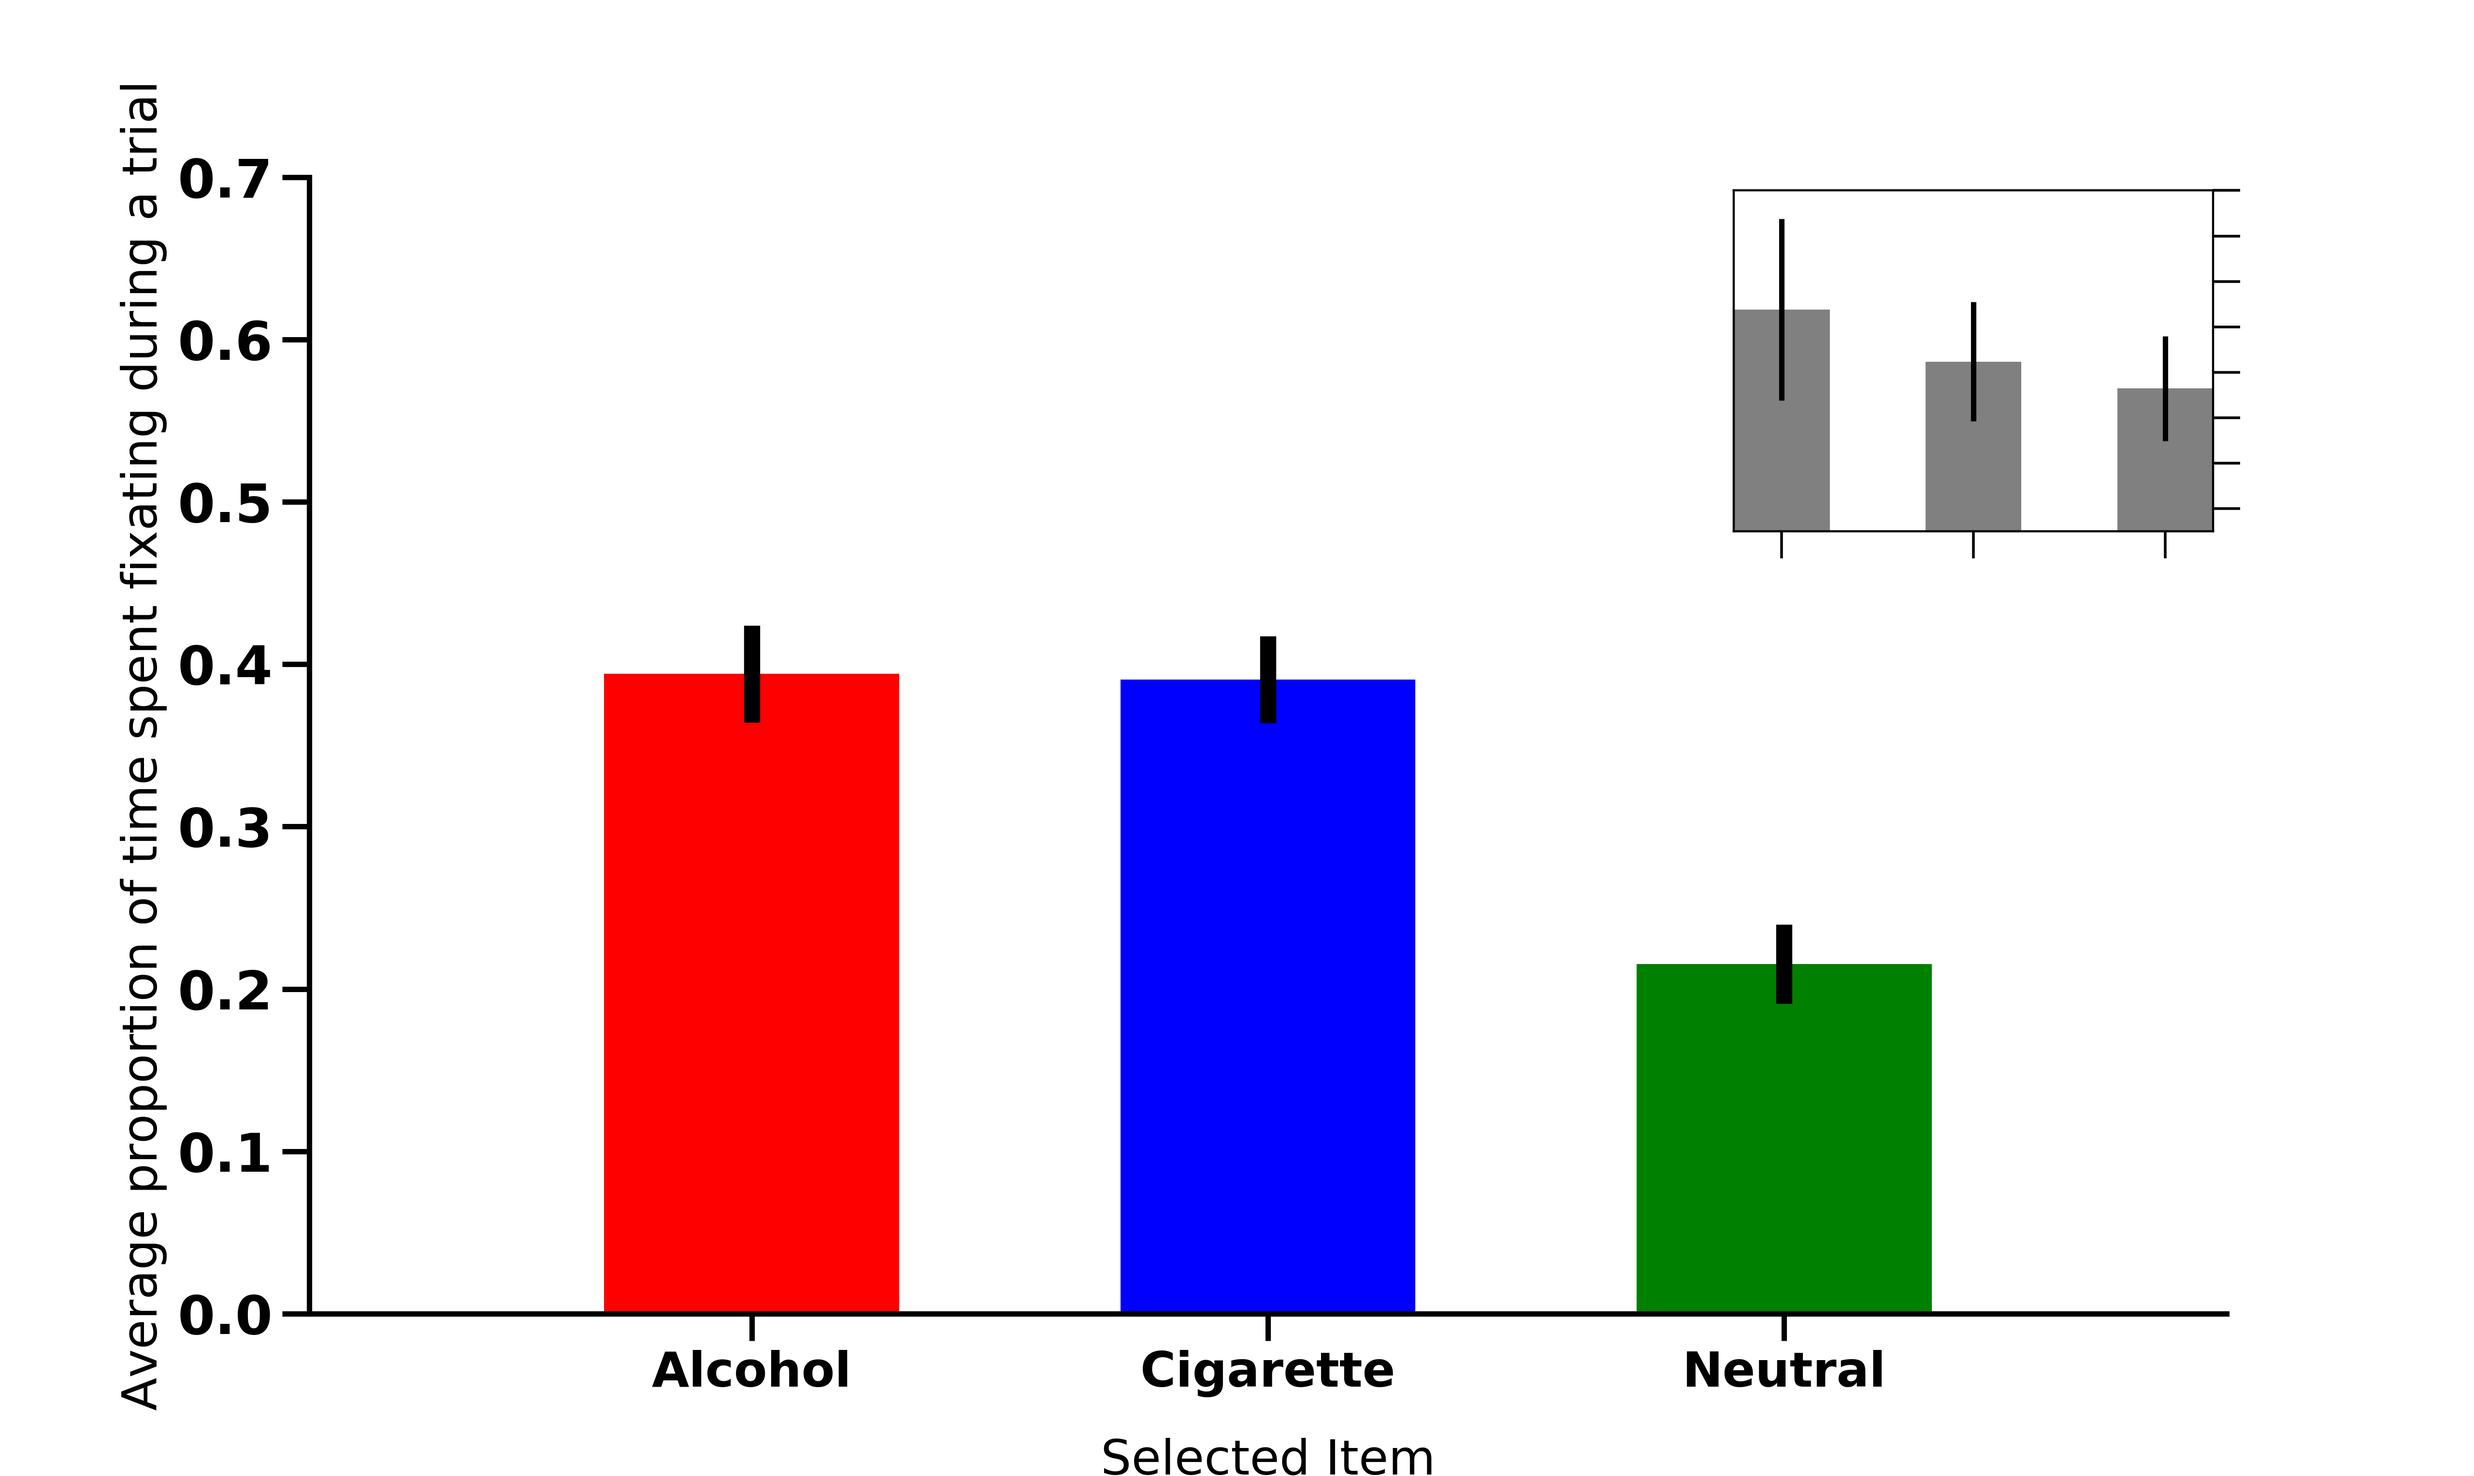
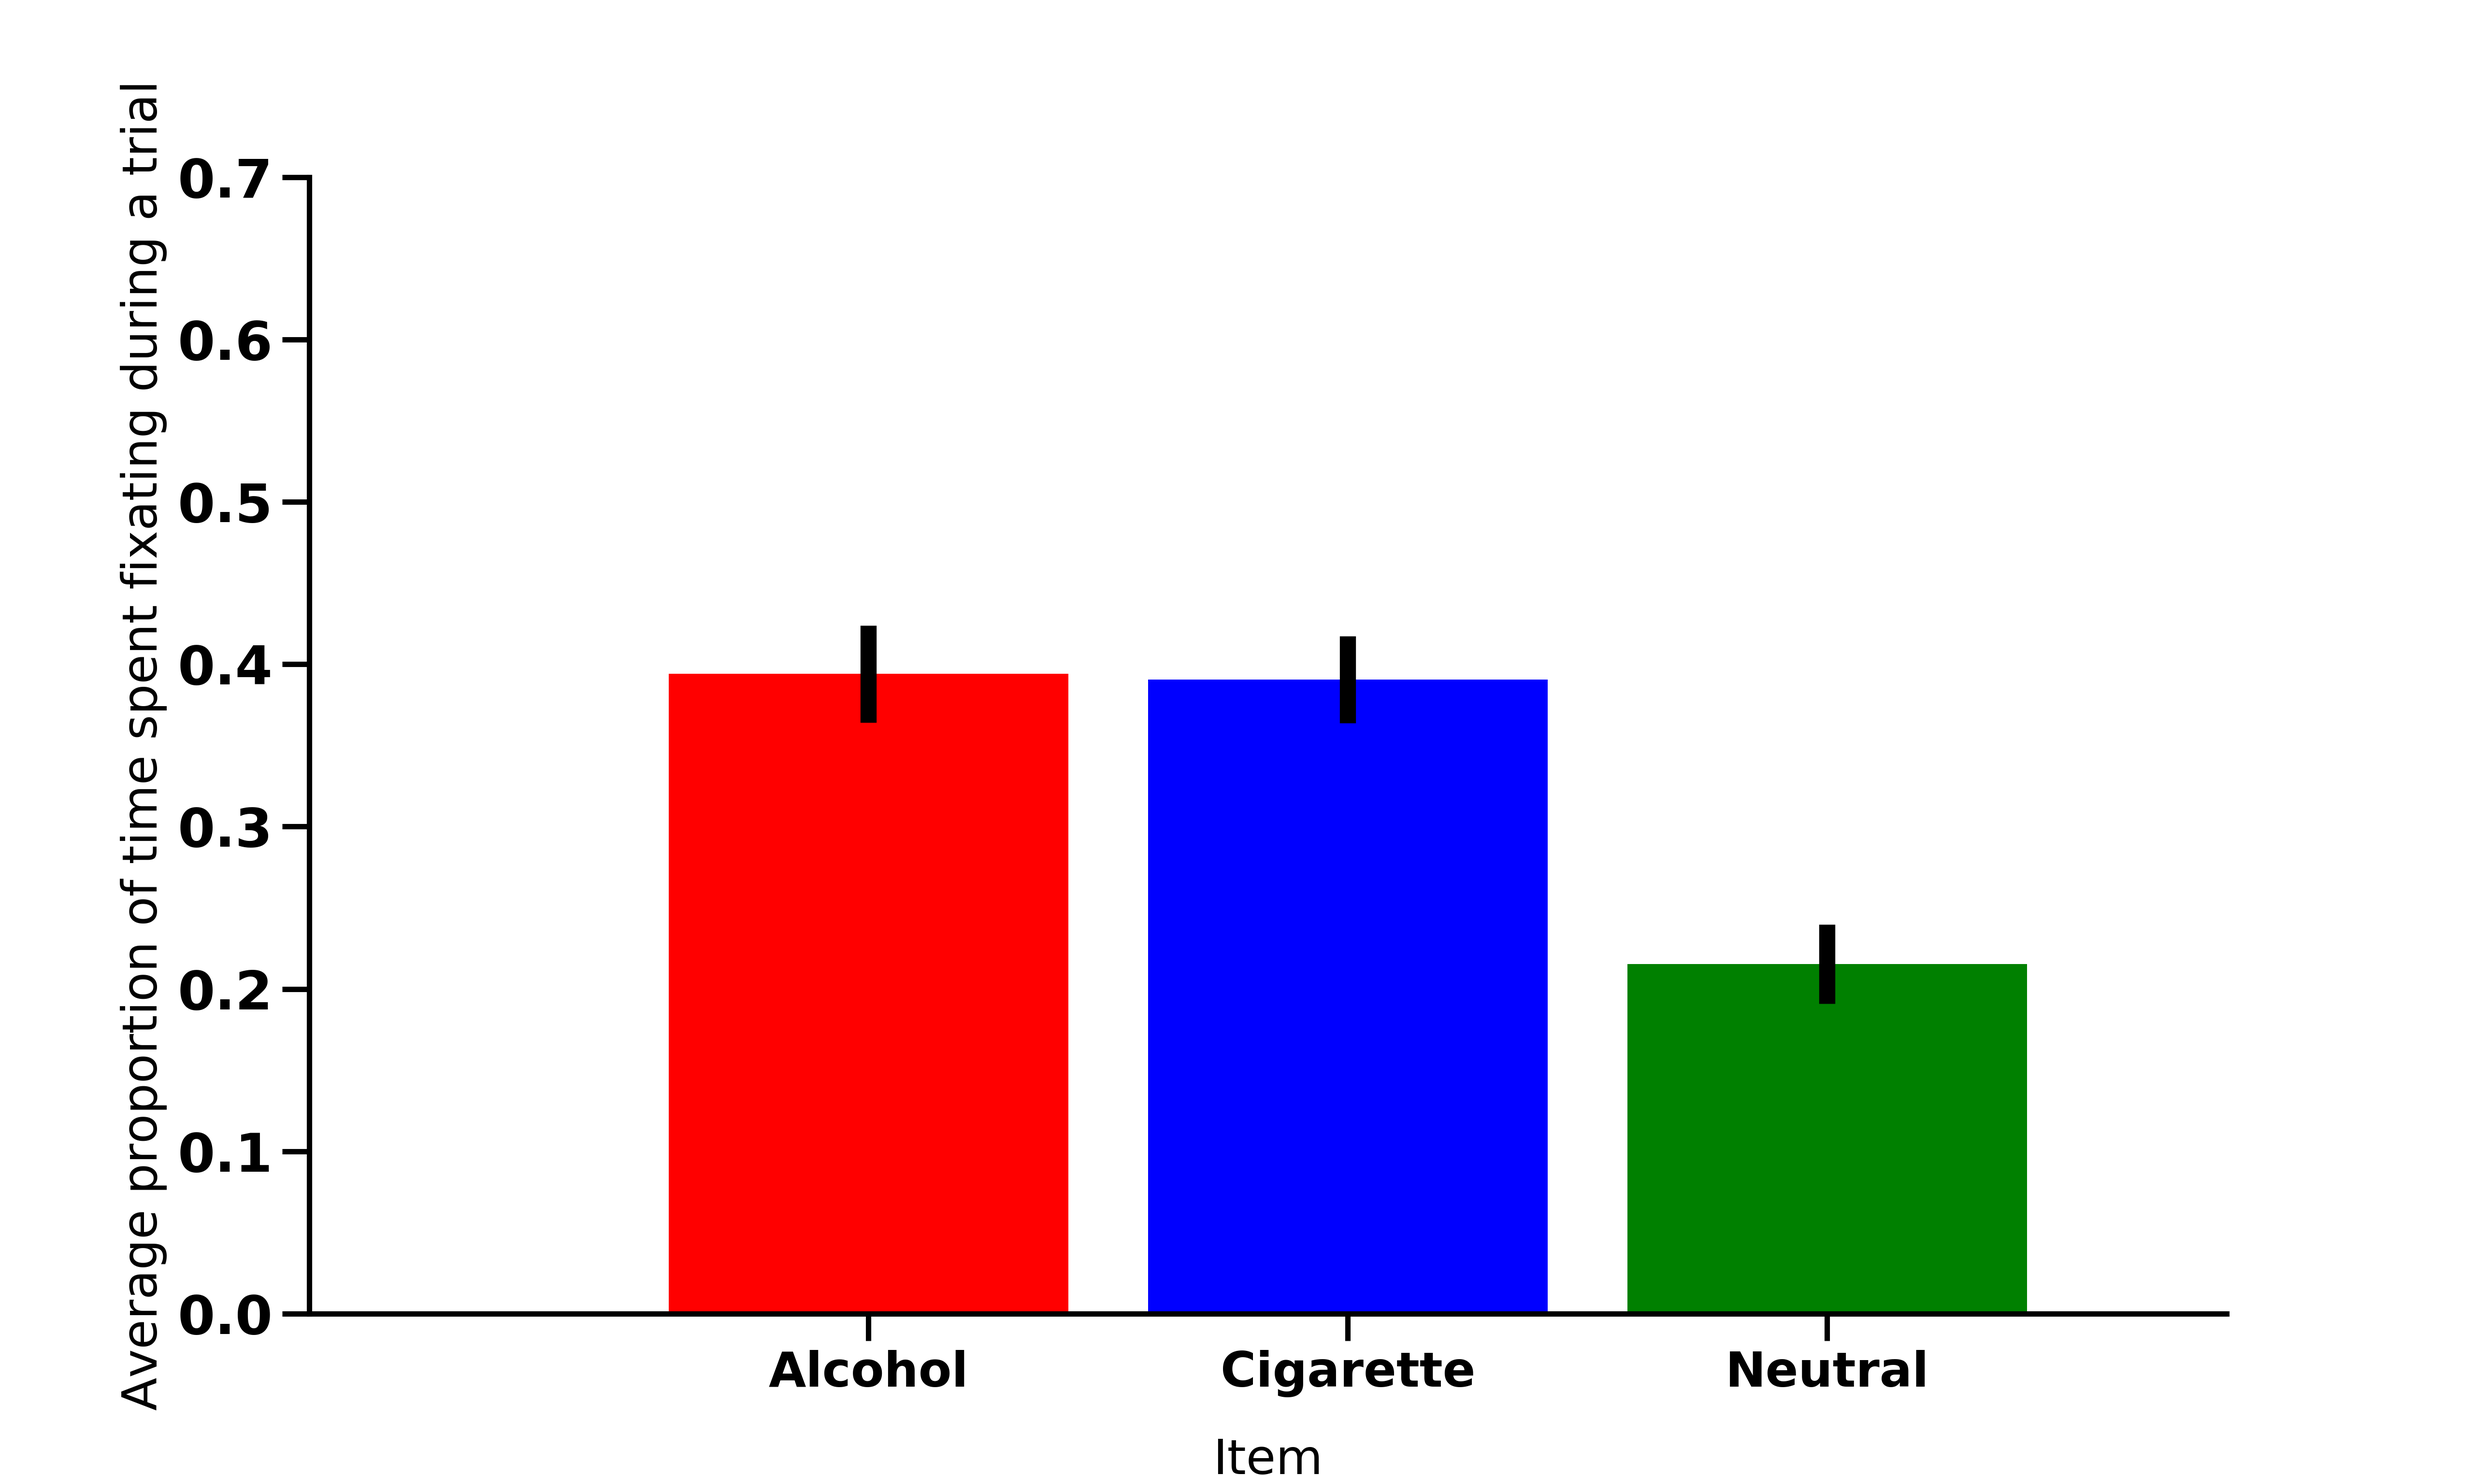
redid plots

diff --git a/cret_generate_figures.py b/cret_generate_figures.py
@@ -117,44 +117,21 @@ show();
 ##Plot proportion for all trials aggregated together
 fig = figure(figsize = (12.8,7.64)); ax1=gca(); #grid(True);
 #title('Average proportion of time fixating each item in a trial \n all trials aggregated together, subject %s'%eyed, fontsize = 22);
-ax1.set_ylim(0.0,0.70); ax1.set_yticks(arange(0.0,0.701,0.1)); ax1.set_xlim([0.4,3.0]); ax1.set_xticks([1,1.7,2.4]);
-ax1.set_ylabel('Average proportion of time spent fixating during a trial',size=18); ax1.set_xlabel('Selected Item',size=18,labelpad=15);
+ax1.set_ylim(0.0,0.70); ax1.set_yticks(arange(0.0,0.701,0.1)); ax1.set_xlim([0.5,1.7]); ax1.set_xticks([0.85, 1.15, 1.45]);
+ax1.set_ylabel('Average proportion of time spent fixating during a trial',size=18); ax1.set_xlabel('Item',size=18,labelpad=15);
 ax1.set_xticklabels(['Alcohol','Cigarette','Neutral']); #'All PAPC Trials',
 #alcohol first
-ax1.bar(1.0,db['%s_high_pref_all_hp_look_at_alc_mean_perc_time_at_pref'%eyed], color = colors[0], width = 0.4);
-ax1.errorbar(1.0, db['%s_high_pref_all_hp_look_at_alc_mean_perc_time_at_pref'%eyed],
+ax1.bar(0.85,db['%s_high_pref_all_hp_look_at_alc_mean_perc_time_at_pref'%eyed], color = colors[0], width = 0.25);
+ax1.errorbar(0.85, db['%s_high_pref_all_hp_look_at_alc_mean_perc_time_at_pref'%eyed],
              yerr=[[db['%s_high_pref_all_hp_look_at_alc_bs_sems_perc_time_at_pref'%eyed]],[db['%s_high_pref_all_hp_look_at_alc_bs_sems_perc_time_at_pref'%eyed]]],color='black',lw=6.0);
 #cigarettes next
-ax1.bar(1.7,db['%s_high_pref_all_hp_look_at_cig_mean_perc_time_at_pref'%eyed], color = colors[1], width = 0.4);
-ax1.errorbar(1.7, db['%s_high_pref_all_hp_look_at_cig_mean_perc_time_at_pref'%eyed],
+ax1.bar(1.15,db['%s_high_pref_all_hp_look_at_cig_mean_perc_time_at_pref'%eyed], color = colors[1], width = 0.25);
+ax1.errorbar(1.15, db['%s_high_pref_all_hp_look_at_cig_mean_perc_time_at_pref'%eyed],
              yerr=[[db['%s_high_pref_all_hp_look_at_cig_bs_sems_perc_time_at_pref'%eyed]],[db['%s_high_pref_all_hp_look_at_cig_bs_sems_perc_time_at_pref'%eyed]]],color='black',lw=6.0);
 #finally neutral
-ax1.bar(2.4,db['%s_high_pref_all_hp_look_at_neutral_mean_perc_time_at_pref'%eyed], color = colors[2], width = 0.4);
-ax1.errorbar(2.4, db['%s_high_pref_all_hp_look_at_neutral_mean_perc_time_at_pref'%eyed],
+ax1.bar(1.45,db['%s_high_pref_all_hp_look_at_neutral_mean_perc_time_at_pref'%eyed], color = colors[2], width = 0.25);
+ax1.errorbar(1.45, db['%s_high_pref_all_hp_look_at_neutral_mean_perc_time_at_pref'%eyed],
              yerr=[[db['%s_high_pref_all_hp_look_at_neutral_bs_sems_perc_time_at_pref'%eyed]],[db['%s_high_pref_all_hp_look_at_neutral_bs_sems_perc_time_at_pref'%eyed]]],color='black',lw=6.0);
-
-#plot RTs for each type of trial in an inset
-ia = inset_axes(ax1, width="25%", height="30%", loc=1); #set the inset axes as percentages of the original axis size
-ia.tick_params(width = 1.0);
-ia.set_xlim([0.85,2.35]); ia.set_xticks([1,1.6,2.2]); ia.set_ylim([850,1400]); ia.set_yticks(arange(900,1601,100));
-ia.set_xticklabels(['Alc','Cig','Neutral'], size = 10);
-ia.set_xticklabels(['','',''], size = 10);
-#ia.set_ylabel('Reaction time (ms)',size=10); ia.set_xlabel('Selected Item',size=10);
-ia.yaxis.set_label_position('right'); ia.yaxis.set_ticks_position('right');
-ia.set_yticklabels(['900','1000','1100','1200','1300','1400','1500','1600'], size = 10);
-ia.set_yticklabels(['','','','','','','',''], size = 10);
-ia.bar(1.0,db['agg_high_pref_selected_alc_mean_rt'], color = 'grey', width = 0.3);
-ia.errorbar(1.0, db['agg_high_pref_selected_alc_mean_rt'],
-             yerr=[[db['agg_high_pref_selected_alc_bs_sems_rt']],[db['agg_high_pref_selected_alc_bs_sems_rt']]],color='black',lw=2.0,capsize = 0);
-ia.bar(1.6,db['agg_high_pref_selected_cig_mean_rt'], color = 'grey', width = 0.3);
-ia.errorbar(1.6, db['agg_high_pref_selected_cig_mean_rt'],
-             yerr=[[db['agg_high_pref_selected_cig_bs_sems_rt']],[db['agg_high_pref_selected_cig_bs_sems_rt']]],color='black',lw=2.0,capsize = 0);
-ia.bar(2.2,db['agg_high_pref_selected_neutral_mean_rt'], color = 'grey', width = 0.3);
-ia.errorbar(2.2, db['agg_high_pref_selected_neutral_mean_rt'],
-             yerr=[[db['agg_high_pref_selected_neutral_bs_sems_rt']],[db['agg_high_pref_selected_neutral_bs_sems_rt']]],color='black',lw=2.0,capsize = 0);
-# title('Mean RT', fontsize = 14);
-
-
 ax1.spines['right'].set_visible(False); ax1.spines['top'].set_visible(False);
 ax1.spines['bottom'].set_linewidth(2.0); ax1.spines['left'].set_linewidth(2.0);
 ax1.yaxis.set_ticks_position('left'); ax1.xaxis.set_ticks_position('bottom');
@@ -169,6 +146,38 @@ ax1.set_ylabel(''); ax1.set_xlabel(''); title('');
 filename = 'all_hp_fixate_preferred_item';
 savefig(savepath+filename+'.eps',dpi=400);
 show();
+
+
+#then mean RT for each condition
+fig = figure(figsize = (12.8,7.64)); ax1=gca(); #grid(True);
+#title('Average proportion of time fixating each item in a trial \n all trials aggregated together, subject %s'%eyed, fontsize = 22);
+ax1.set_ylim(850, 1600); ax1.set_yticks(arange(900, 1601, 100)); ax1.set_xlim([0.5,1.7]); ax1.set_xticks([0.85, 1.15, 1.45]);
+ax1.set_ylabel('Mean RT',size=18); ax1.set_xlabel('Selected Item',size=18,labelpad=15);
+ax1.set_xticklabels(['Alcohol','Cigarette','Neutral']);
+ax1.bar(0.85,db['agg_high_pref_selected_alc_mean_rt'], color = colors[0], width = 0.25);
+ax1.errorbar(0.85, db['agg_high_pref_selected_alc_mean_rt'],
+             yerr=[[db['agg_high_pref_selected_alc_bs_sems_rt']],[db['agg_high_pref_selected_alc_bs_sems_rt']]],color='black',lw=6.0,capsize = 0);
+ax1.bar(1.15,db['agg_high_pref_selected_cig_mean_rt'], color = colors[1], width = 0.25);
+ax1.errorbar(1.15, db['agg_high_pref_selected_cig_mean_rt'],
+             yerr=[[db['agg_high_pref_selected_cig_bs_sems_rt']],[db['agg_high_pref_selected_cig_bs_sems_rt']]],color='black',lw=6.0,capsize = 0);
+ax1.bar(1.45,db['agg_high_pref_selected_neutral_mean_rt'], color = colors[2], width = 0.25);
+ax1.errorbar(1.45, db['agg_high_pref_selected_neutral_mean_rt'],
+             yerr=[[db['agg_high_pref_selected_neutral_bs_sems_rt']],[db['agg_high_pref_selected_neutral_bs_sems_rt']]],color='black',lw=6.0,capsize = 0);
+ax1.spines['right'].set_visible(False); ax1.spines['top'].set_visible(False);
+ax1.spines['bottom'].set_linewidth(2.0); ax1.spines['left'].set_linewidth(2.0);
+ax1.yaxis.set_ticks_position('left'); ax1.xaxis.set_ticks_position('bottom');
+#save the labeled figure as a .png	
+filename = 'rt_by_chosen_item_labeled';
+savefig(savepath+filename+'.png',dpi=400);
+#then get rid of labels and save as a .eps
+labels = [item.get_text() for item in ax1.get_xticklabels()]; labels[0]=''; labels[1]=''; labels[2]=''; #labels[3]=''; labels[4]='';#have to do this to center the x ticks on correct spot without incurring ticks at every spot
+ax1.set_xticklabels(labels);
+ax1.set_yticklabels(['','','','','','','','','','','','','','']);
+ax1.set_ylabel(''); ax1.set_xlabel(''); title('');
+filename = 'rt_by_chosen_item';
+savefig(savepath+filename+'.eps',dpi=400);
+show();
+
 
 
 
@@ -269,3 +278,28 @@ show();
 # # filename = 'cue_vs_not_cue_percentage_time_fixate_preferred_item';
 # # savefig(savepath+filename+'.eps',dpi=400);
 # show();
+
+
+### Inset axes object, originally designed for RT
+# #plot RTs for each type of trial in an inset
+# ia = inset_axes(ax1, width="25%", height="30%", loc=1); #set the inset axes as percentages of the original axis size
+# ia.tick_params(width = 1.0);
+# ia.set_xlim([0.85,2.35]); ia.set_xticks([1,1.6,2.2]); ia.set_ylim([850,1400]); ia.set_yticks(arange(900,1601,100));
+# ia.set_xticklabels(['Alc','Cig','Neutral'], size = 10);
+# ia.set_xticklabels(['','',''], size = 10);
+# #ia.set_ylabel('Reaction time (ms)',size=10); ia.set_xlabel('Selected Item',size=10);
+# ia.yaxis.set_label_position('right'); ia.yaxis.set_ticks_position('right');
+# ia.set_yticklabels(['900','1000','1100','1200','1300','1400','1500','1600'], size = 10);
+# ia.set_yticklabels(['','','','','','','',''], size = 10);
+# ia.bar(1.0,db['agg_high_pref_selected_alc_mean_rt'], color = 'grey', width = 0.3);
+# ia.errorbar(1.0, db['agg_high_pref_selected_alc_mean_rt'],
+#              yerr=[[db['agg_high_pref_selected_alc_bs_sems_rt']],[db['agg_high_pref_selected_alc_bs_sems_rt']]],color='black',lw=2.0,capsize = 0);
+# ia.bar(1.6,db['agg_high_pref_selected_cig_mean_rt'], color = 'grey', width = 0.3);
+# ia.errorbar(1.6, db['agg_high_pref_selected_cig_mean_rt'],
+#              yerr=[[db['agg_high_pref_selected_cig_bs_sems_rt']],[db['agg_high_pref_selected_cig_bs_sems_rt']]],color='black',lw=2.0,capsize = 0);
+# ia.bar(2.2,db['agg_high_pref_selected_neutral_mean_rt'], color = 'grey', width = 0.3);
+# ia.errorbar(2.2, db['agg_high_pref_selected_neutral_mean_rt'],
+#              yerr=[[db['agg_high_pref_selected_neutral_bs_sems_rt']],[db['agg_high_pref_selected_neutral_bs_sems_rt']]],color='black',lw=2.0,capsize = 0);
+# # title('Mean RT', fontsize = 14);
+
+
